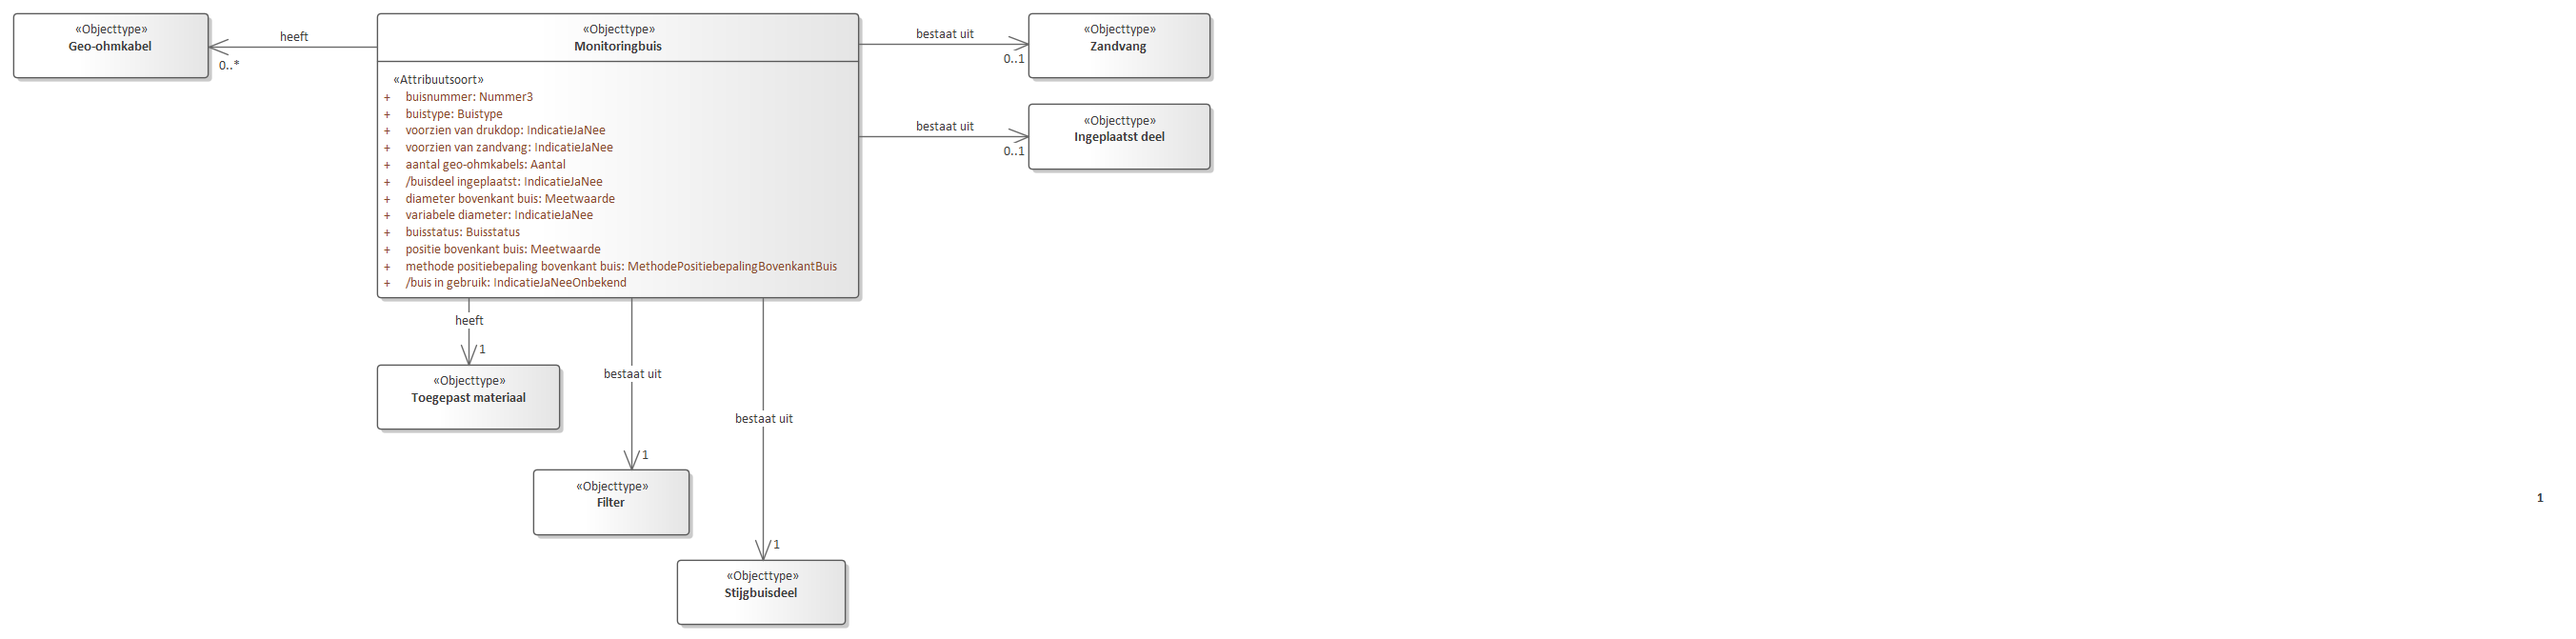
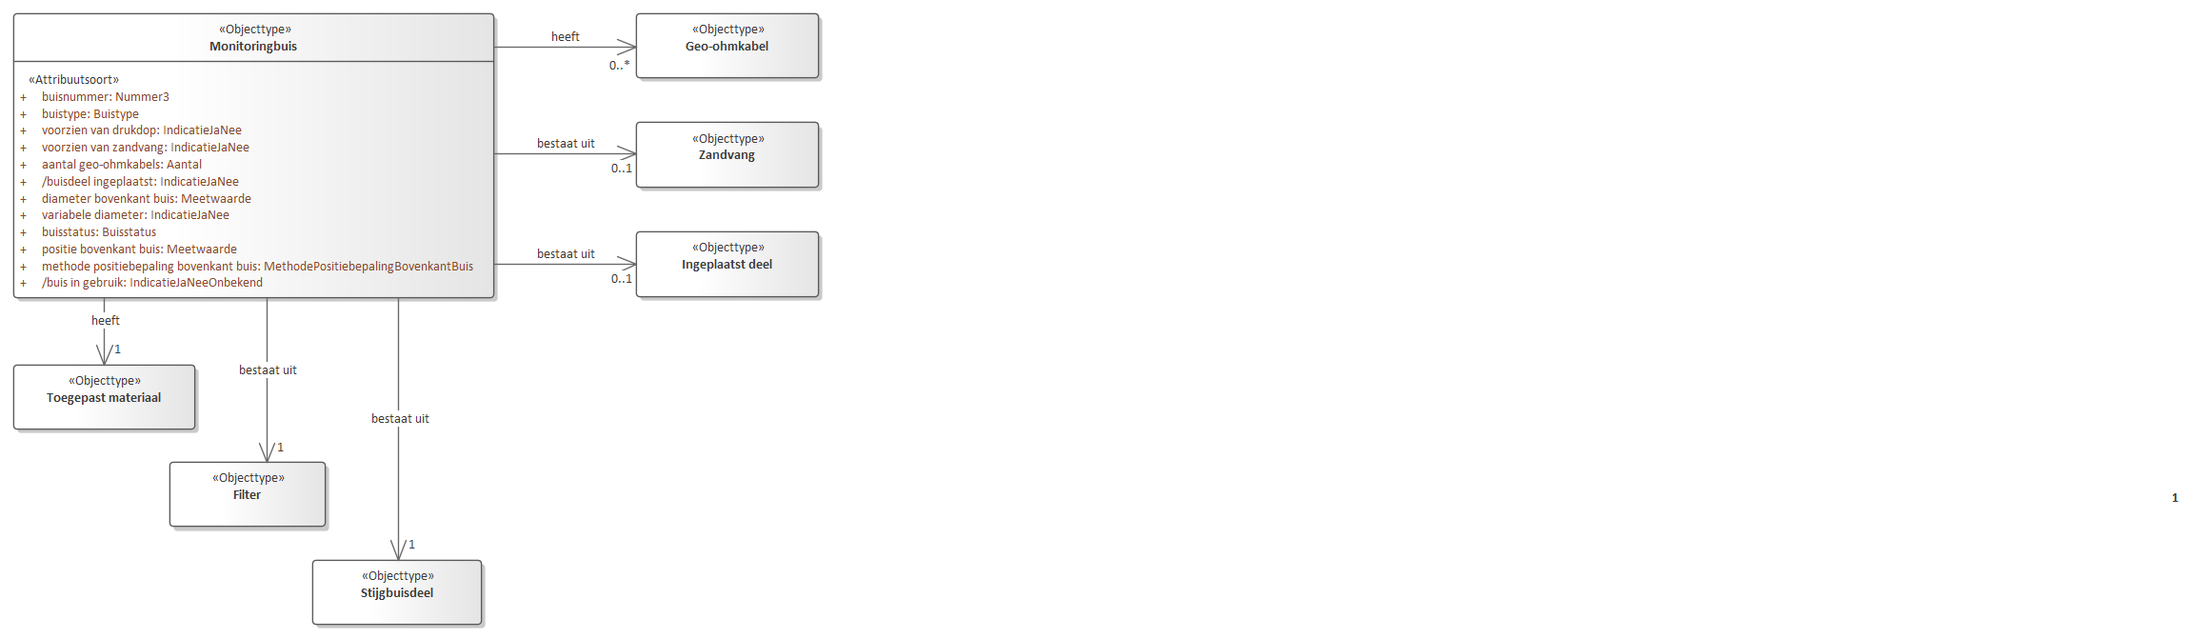
Conceptualmodel-GMWconceptueelMIM-1.1-1-20190910-20220510-151933

diff --git a/data/GMW-cat.msword.html b/data/GMW-cat.msword.html
@@ -15,7 +15,7 @@
    <body>
       <p>Conceptual model/GMW conceptueel MIM/20190910</p>
       <p>Imvertor: 1.65.4</p>
-      <p>Model release: Conceptualmodel-GMWconceptueelMIM-1.1-1-20190910-20220510-150821</p>
+      <p>Model release: Conceptualmodel-GMWconceptueelMIM-1.1-1-20190910-20220510-151933</p>
       <hr>
       <section>
          <h1>Artikel 1 Definitie van registratieobject, entiteiten en attributen</h1>
@@ -2328,7 +2328,7 @@
                      </section>
                </section><a class="anchor" id="graph_EAID_37A4505C_6C20_449b_A69D_5A3FD406F71F"></a><a class="anchor" id="global_class_Model_Monitoringbuis"></a><section id="global_class_Model_Monitoringbuis">
                   <h3>   Monitoringbuis</h3>
-                  <div class="imageinfo "><img src="Images/EAID_1FF69766_5DE4_40b0_956F_EACAEB5A5E9F.png" usemap="#imagemap-EAID_1FF69766_5DE4_40b0_956F_EACAEB5A5E9F" alt="Diagram "><map name="imagemap-EAID_1FF69766_5DE4_40b0_956F_EACAEB5A5E9F"><area shape="rect" alt="Monitoringbuis" coords="396,14,902,313" href="#graph_EAID_37A4505C_6C20_449b_A69D_5A3FD406F71F"><area shape="rect" alt="Toegepast materiaal" coords="396,383,588,451" href="#graph_EAID_991ABB1E_6DE8_44be_9F69_873394B4A09F"><area shape="rect" alt="Ingeplaatst deel" coords="1080,109,1271,178" href="#graph_EAID_2844EE68_F05D_489f_B88E_36D5EB750FB8"><area shape="rect" alt="Zandvang" coords="1080,14,1271,82" href="#graph_EAID_CE9B3282_A2CA_4584_B481_3AAD2ED94AA0"><area shape="rect" alt="Geo-ohmkabel" coords="14,14,219,82" href="#graph_EAID_054D0A9D_812D_4cbd_8B7A_B33B81D5C6F5"><area shape="rect" alt="Filter" coords="560,493,724,562" href="#graph_EAID_84B999FC_3DE9_4f72_A0A7_99DDD6DB7CB7"><area shape="rect" alt="Stijgbuisdeel" coords="711,588,888,656" href="#graph_EAID_3ECF9C95_1E37_4c37_A603_3EE701474DA1"></map><p><b></b></p>
+                  <div class="imageinfo "><img src="Images/EAID_1FF69766_5DE4_40b0_956F_EACAEB5A5E9F.png" usemap="#imagemap-EAID_1FF69766_5DE4_40b0_956F_EACAEB5A5E9F" alt="Diagram "><map name="imagemap-EAID_1FF69766_5DE4_40b0_956F_EACAEB5A5E9F"><area shape="rect" alt="Monitoringbuis" coords="14,14,519,313" href="#graph_EAID_37A4505C_6C20_449b_A69D_5A3FD406F71F"><area shape="rect" alt="Toegepast materiaal" coords="14,383,205,451" href="#graph_EAID_991ABB1E_6DE8_44be_9F69_873394B4A09F"><area shape="rect" alt="Ingeplaatst deel" coords="668,243,860,312" href="#graph_EAID_2844EE68_F05D_489f_B88E_36D5EB750FB8"><area shape="rect" alt="Zandvang" coords="668,128,860,197" href="#graph_EAID_CE9B3282_A2CA_4584_B481_3AAD2ED94AA0"><area shape="rect" alt="Geo-ohmkabel" coords="668,14,860,82" href="#graph_EAID_054D0A9D_812D_4cbd_8B7A_B33B81D5C6F5"><area shape="rect" alt="Filter" coords="178,485,342,553" href="#graph_EAID_84B999FC_3DE9_4f72_A0A7_99DDD6DB7CB7"><area shape="rect" alt="Stijgbuisdeel" coords="328,588,506,656" href="#graph_EAID_3ECF9C95_1E37_4c37_A603_3EE701474DA1"></map><p><b></b></p>
                   </div>
                   <table style="width: 100%;">
                      <colgroup style="width: 30%;"></colgroup>

diff --git a/data/GMW-cat.respec.html b/data/GMW-cat.respec.html
@@ -2304,7 +2304,7 @@
             </section>
       </section><a class="anchor" id="graph_EAID_37A4505C_6C20_449b_A69D_5A3FD406F71F"></a><a class="anchor" id="global_class_Model_Monitoringbuis"></a><section id="global_class_Model_Monitoringbuis">
          <h3>   Monitoringbuis</h3>
-         <div class="imageinfo "><img src="data/Images/EAID_1FF69766_5DE4_40b0_956F_EACAEB5A5E9F.png" usemap="#imagemap-EAID_1FF69766_5DE4_40b0_956F_EACAEB5A5E9F" alt="Diagram "><map name="imagemap-EAID_1FF69766_5DE4_40b0_956F_EACAEB5A5E9F"><area shape="rect" alt="Monitoringbuis" coords="396,14,902,313" href="#graph_EAID_37A4505C_6C20_449b_A69D_5A3FD406F71F"><area shape="rect" alt="Toegepast materiaal" coords="396,383,588,451" href="#graph_EAID_991ABB1E_6DE8_44be_9F69_873394B4A09F"><area shape="rect" alt="Ingeplaatst deel" coords="1080,109,1271,178" href="#graph_EAID_2844EE68_F05D_489f_B88E_36D5EB750FB8"><area shape="rect" alt="Zandvang" coords="1080,14,1271,82" href="#graph_EAID_CE9B3282_A2CA_4584_B481_3AAD2ED94AA0"><area shape="rect" alt="Geo-ohmkabel" coords="14,14,219,82" href="#graph_EAID_054D0A9D_812D_4cbd_8B7A_B33B81D5C6F5"><area shape="rect" alt="Filter" coords="560,493,724,562" href="#graph_EAID_84B999FC_3DE9_4f72_A0A7_99DDD6DB7CB7"><area shape="rect" alt="Stijgbuisdeel" coords="711,588,888,656" href="#graph_EAID_3ECF9C95_1E37_4c37_A603_3EE701474DA1"></map><p><b></b></p>
+         <div class="imageinfo "><img src="data/Images/EAID_1FF69766_5DE4_40b0_956F_EACAEB5A5E9F.png" usemap="#imagemap-EAID_1FF69766_5DE4_40b0_956F_EACAEB5A5E9F" alt="Diagram "><map name="imagemap-EAID_1FF69766_5DE4_40b0_956F_EACAEB5A5E9F"><area shape="rect" alt="Monitoringbuis" coords="14,14,519,313" href="#graph_EAID_37A4505C_6C20_449b_A69D_5A3FD406F71F"><area shape="rect" alt="Toegepast materiaal" coords="14,383,205,451" href="#graph_EAID_991ABB1E_6DE8_44be_9F69_873394B4A09F"><area shape="rect" alt="Ingeplaatst deel" coords="668,243,860,312" href="#graph_EAID_2844EE68_F05D_489f_B88E_36D5EB750FB8"><area shape="rect" alt="Zandvang" coords="668,128,860,197" href="#graph_EAID_CE9B3282_A2CA_4584_B481_3AAD2ED94AA0"><area shape="rect" alt="Geo-ohmkabel" coords="668,14,860,82" href="#graph_EAID_054D0A9D_812D_4cbd_8B7A_B33B81D5C6F5"><area shape="rect" alt="Filter" coords="178,485,342,553" href="#graph_EAID_84B999FC_3DE9_4f72_A0A7_99DDD6DB7CB7"><area shape="rect" alt="Stijgbuisdeel" coords="328,588,506,656" href="#graph_EAID_3ECF9C95_1E37_4c37_A603_3EE701474DA1"></map><p><b></b></p>
          </div>
          <table style="width: 100%;">
             <colgroup style="width: 30%;"></colgroup>
